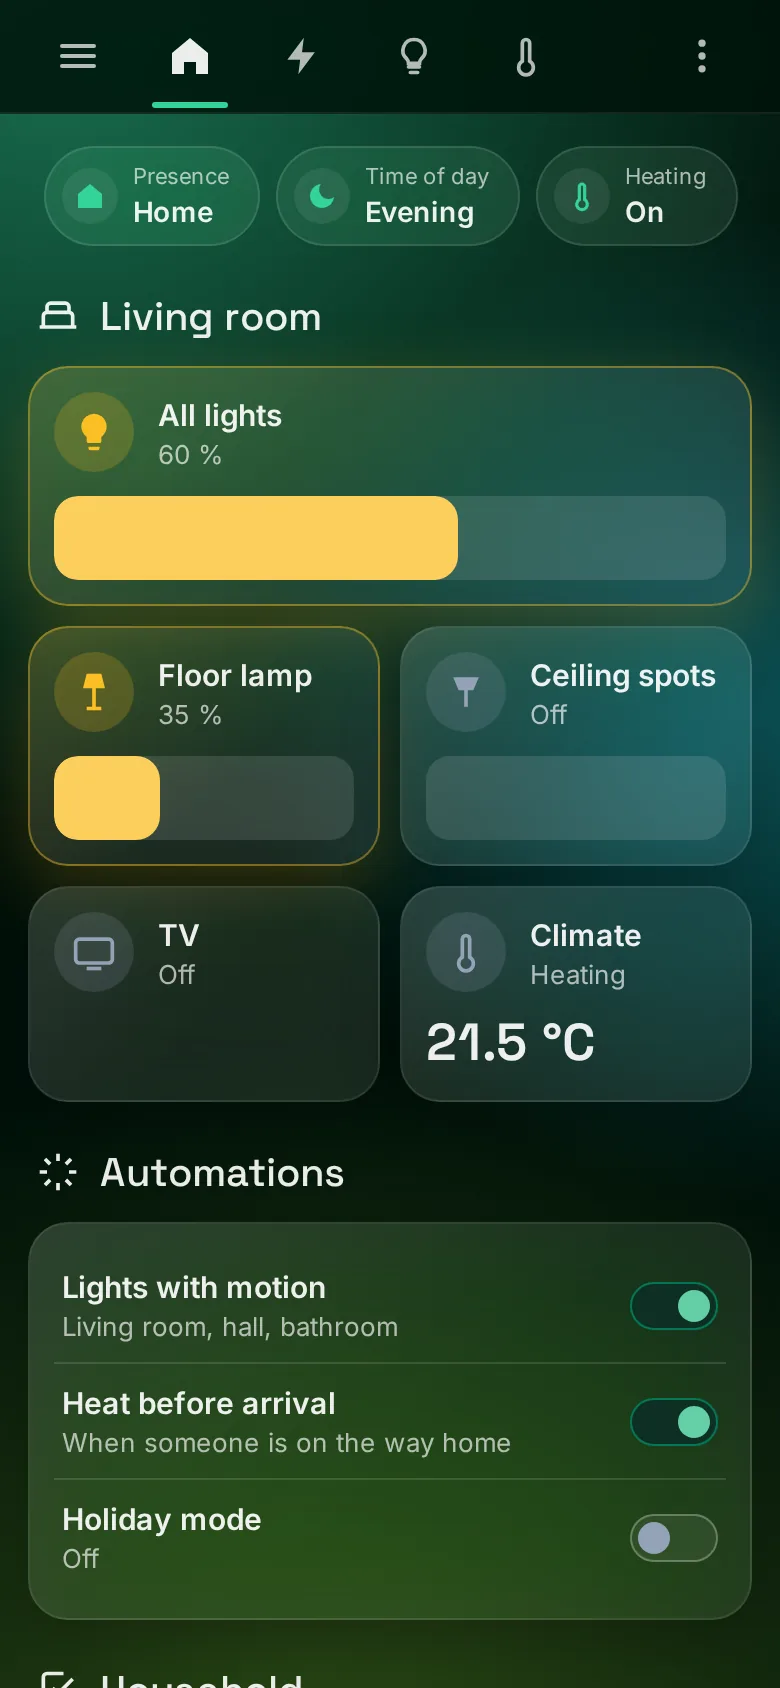
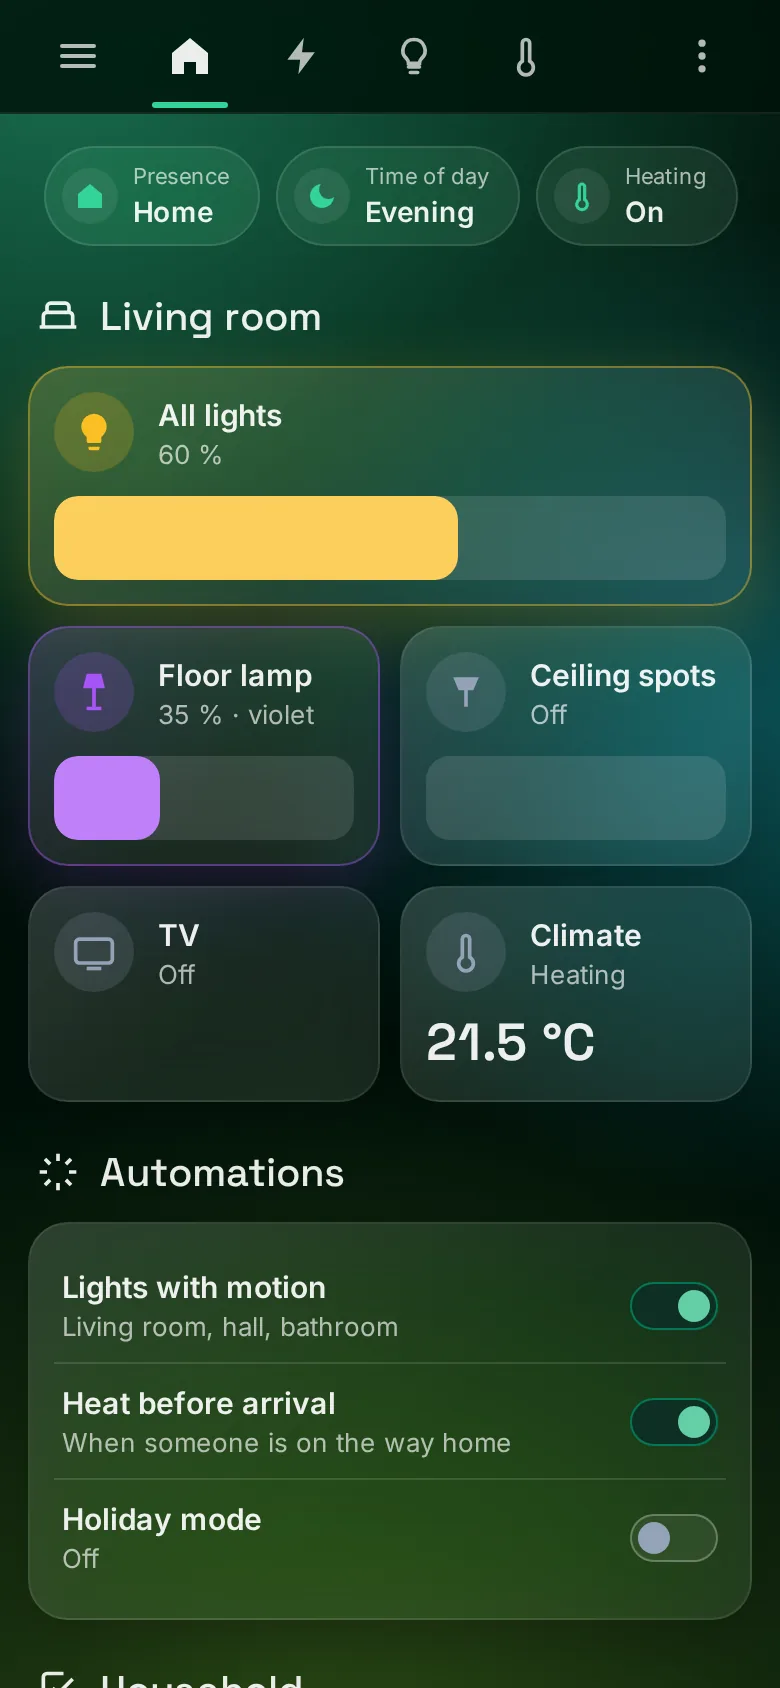
Show a colour light's glow in the screenshots
Every lit tile in the screenshots glowed amber, though with card-mod a
colour light's tile glows in the light's own colour (Home Assistant's
--tile-color). The demo's floor lamp now shines violet.

Changed region(s): [[0.0308, 0.3697, 0.4923, 0.5237], [0.3385, 0.4005, 0.4, 0.4313]]

diff --git a/docs/demo/dashboard.html b/docs/demo/dashboard.html
@@ -8,7 +8,8 @@
   A static stand-in for a Home Assistant dashboard, used only to render the README's
   screenshots (script/screenshots.py). It holds no theme colours: the script sets the
   CSS variables below from src/variants.yaml for each theme and mode, and the body
-  class picks the layout (mobile or desktop).
+  class picks the layout (mobile or desktop). The floor lamp shines violet as a colour
+  light does: its tile's glow takes the light's colour (Home Assistant's --tile-color).
 -->
 <link rel="preconnect" href="https://fonts.googleapis.com">
 <link href="https://fonts.googleapis.com/css2?family=Inter:wght@400;500;600&family=Space+Grotesk:wght@500;600&display=swap" rel="stylesheet">
@@ -144,7 +145,7 @@
           <h2><svg width="22" height="22" viewBox="0 0 24 24" fill="none" stroke="currentColor" stroke-width="2"><path d="M4 18v-6a2 2 0 0 1 2-2h12a2 2 0 0 1 2 2v6M2 18h20M6 10V7a2 2 0 0 1 2-2h8a2 2 0 0 1 2 2v3"/></svg>Living room</h2>
           <div class="grid">
             <div class="card active wide"><div class="tile-top"><span class="ti"><svg width="22" height="22" viewBox="0 0 24 24" fill="currentColor"><path d="M12 2a7 7 0 0 0-4 12.7V17a1 1 0 0 0 1 1h6a1 1 0 0 0 1-1v-2.3A7 7 0 0 0 12 2zM9 20h6v1a1 1 0 0 1-1 1h-4a1 1 0 0 1-1-1z"/></svg></span><div><div class="name">All lights</div><div class="state">60 %</div></div></div><div class="bar"><i style="width:60%"></i></div></div>
-            <div class="card active"><div class="tile-top"><span class="ti"><svg width="22" height="22" viewBox="0 0 24 24" fill="currentColor"><path d="M8 2h8l2 8H6zM11 10h2v10h3v2H8v-2h3z"/></svg></span><div><div class="name">Floor lamp</div><div class="state">35 %</div></div></div><div class="bar"><i style="width:35%"></i></div></div>
+            <div class="card active" style="--active: #A855F7"><div class="tile-top"><span class="ti"><svg width="22" height="22" viewBox="0 0 24 24" fill="currentColor"><path d="M8 2h8l2 8H6zM11 10h2v10h3v2H8v-2h3z"/></svg></span><div><div class="name">Floor lamp</div><div class="state">35 % · violet</div></div></div><div class="bar"><i style="width:35%"></i></div></div>
             <div class="card"><div class="tile-top"><span class="ti"><svg width="22" height="22" viewBox="0 0 24 24" fill="currentColor"><path d="M5 4h14l-3 7H8zM11 11h2v9h-2z"/></svg></span><div><div class="name">Ceiling spots</div><div class="state">Off</div></div></div><div class="bar"></div></div>
             <div class="card"><div class="tile-top"><span class="ti"><svg width="22" height="22" viewBox="0 0 24 24" fill="none" stroke="currentColor" stroke-width="2"><rect x="2" y="5" width="20" height="13" rx="2"/><path d="M8 21h8"/></svg></span><div><div class="name">TV</div><div class="state">Off</div></div></div></div>
             <div class="card"><div class="tile-top"><span class="ti"><svg width="22" height="22" viewBox="0 0 24 24" fill="none" stroke="currentColor" stroke-width="2"><path d="M14 14.8V5a2 2 0 0 0-4 0v9.8a4 4 0 1 0 4 0z"/></svg></span><div><div class="name">Climate</div><div class="state">Heating</div></div></div><div class="temp">21.5 °C</div></div>

diff --git a/README.md b/README.md
@@ -76,7 +76,7 @@ parts of Home Assistant that theme variables cannot reach. We recommend installi
 | Readable form fields and menus | ✓ | ✓ |
 | Dashboard header | nearly opaque | frosted glass |
 | Light sheen on cards | – | ✓ |
-| Active tiles (light on, device running) glow in their state colour | – | ✓ |
+| Active tiles (light on, device running) glow in their state colour, a colour light in its own colour | – | ✓ |
 | Sidebar blurs what is behind it (when it opens over the dashboard on a phone) | – | ✓ |
 
 Without card-mod nothing breaks: the effects in the last four rows are simply left out.

diff --git a/CHANGELOG.md b/CHANGELOG.md
@@ -3,7 +3,8 @@
 ## Unreleased
 
 - Screenshots of all six themes, light and dark, on a desktop and a phone, rendered from a
-  demo dashboard by `script/screenshots.py`.
+  demo dashboard by `script/screenshots.py`; its floor lamp shines violet to show that a
+  colour light's tile glows in the light's colour.
 
 ## 1.1.0 (2026-11-25)
 
